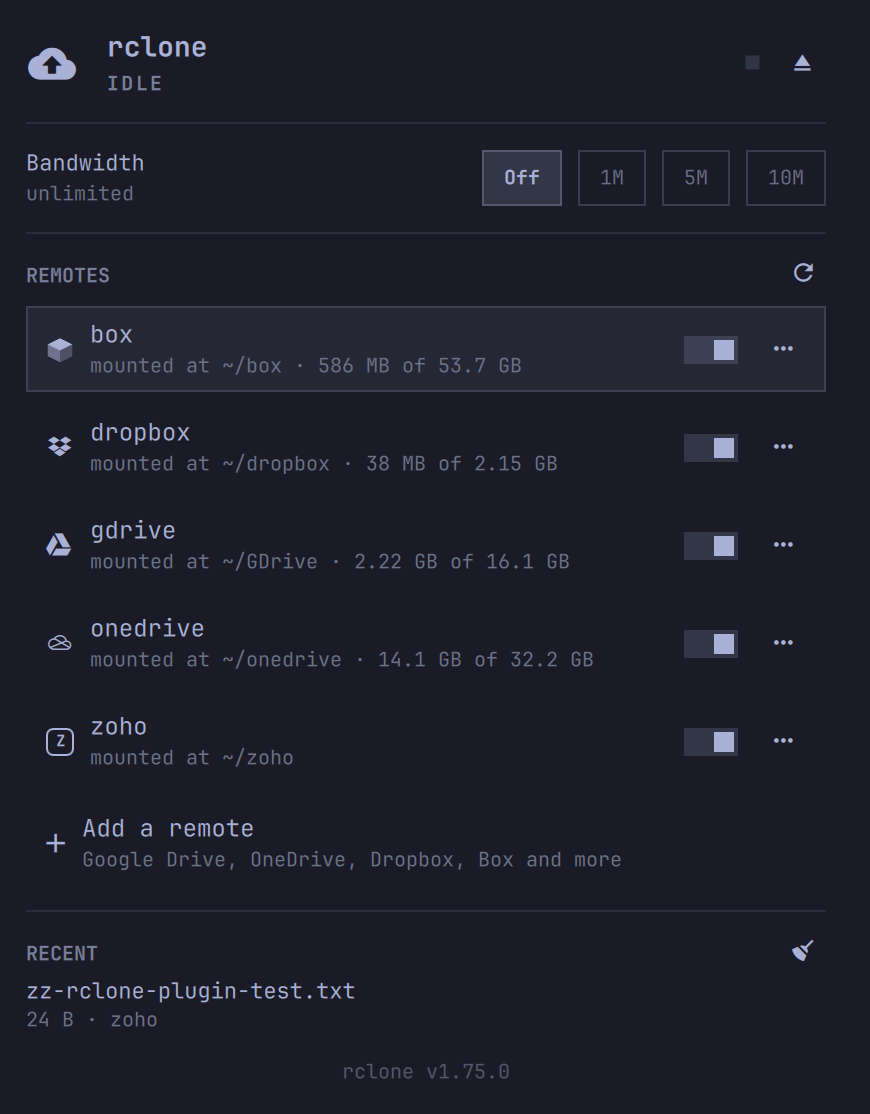
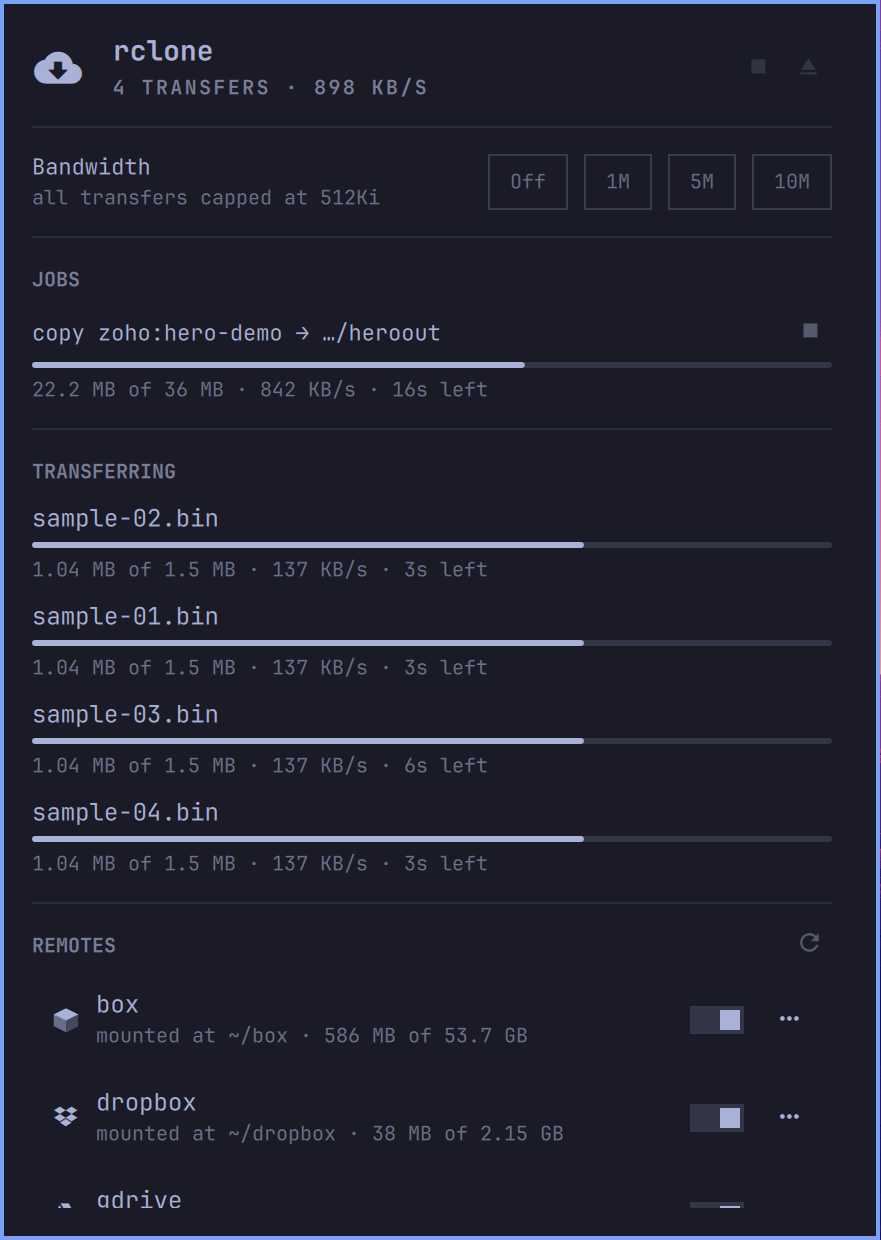
Retake the screenshot mid-transfer
Shows the job progress bar, per-file transfer rows and the bandwidth cap
rather than an idle panel. Uses synthetic files so no real filenames appear.

diff --git a/README.md b/README.md
@@ -6,7 +6,7 @@ space is left — and adding a new provider without opening a terminal.
 Built for my own machine and verified against live Google Drive, Box, OneDrive,
 Dropbox and Zoho accounts on Omarchy 4.0 / rclone 1.75.
 
-<img src="docs/panel.png" alt="The rclone panel: five mounted drives with their storage, a bandwidth cap, and recent transfers" width="420">
+<img src="docs/panel.png" alt="The rclone panel mid-transfer: a copy job with progress, four files in flight with per-file speed and ETA, a bandwidth cap, and mounted drives with their storage" width="420">
 
 ## Install
 
